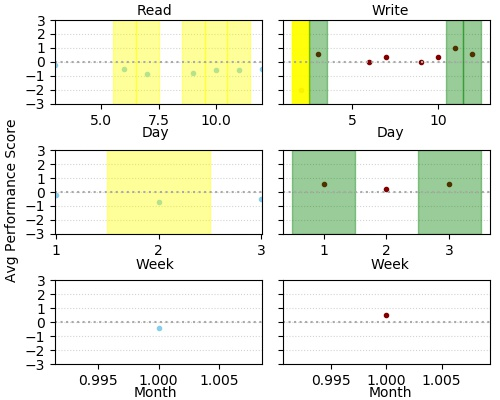
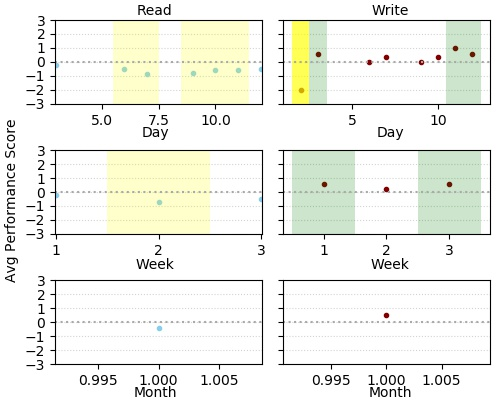
added phase coloring

diff --git a/example/simple_user.py b/example/simple_user.py
@@ -245,16 +245,18 @@ for app in top_apps:
         df = df[['Performance Z-Score',x_axis]].groupby(x_axis, as_index=False).mean()
         x = df.loc[:,x_axis]
         y = df.loc[:,'Performance Z-Score']
+        #axes[n][0].scatter(x, y, marker='.', color='skyblue',label=op)
+        #axes[n][0].set_ylim(-3, 3)
+        for i in range(0,len(y)):
+            alpha = 0.1
+            for r in np.arange(0.5,3.5,.5):
+                alpha = alpha+0.1
+                if y[i]>r:
+                    axes[n][0].axvspan(x[i]-0.5, x[i]+0.5, alpha=alpha, color='green', lw=0)
+                elif y[i]<-r:
+                    axes[n][0].axvspan(x[i]-0.5, x[i]+0.5, alpha=alpha, color='yellow', lw=0)
         axes[n][0].scatter(x, y, marker='.', color='skyblue',label=op)
         axes[n][0].set_ylim(-3, 3)
-        for i in range(0,len(y)):
-            alpha = 0.2
-            for r in np.arange(0.5,3.5,.5):
-                alpha = alpha+0.2
-                if y[i]>r:
-                    axes[n][0].axvspan(x[i]-0.5, x[i]+0.5, alpha=alpha, color='green', edgecolor=None)
-                elif y[i]<-r:
-                    axes[n][0].axvspan(x[i]-0.5, x[i]+0.5, alpha=alpha, color='yellow', edgecolor=None)
         axes[n][0].set_ylabel('')
         axes[n][0].set_yticks(np.arange(-3,4,1))
         axes[n][0].yaxis.grid(color='lightgrey', linestyle=':')
@@ -270,16 +272,18 @@ for app in top_apps:
         df = df.iloc[pos][['Performance Z-Score',x_axis]].groupby(x_axis, as_index=False).mean()
         x = df.loc[:, x_axis]
         y = df.loc[:,'Performance Z-Score']
+        #axes[n][1].scatter(x, y, marker='.', color='maroon',label=op)
+        #axes[n][1].set_ylim(-3, 3)
+        for i in range(0,len(y)):
+            alpha = 0.1
+            for r in np.arange(0.5,3.5,.5):
+                alpha = alpha+0.1
+                if y[i]>r:
+                    axes[n][1].axvspan(x[i]-0.5, x[i]+0.5, alpha=alpha, color='green', lw=0)
+                elif y[i]<-r:
+                    axes[n][1].axvspan(x[i]-0.5, x[i]+0.5, alpha=alpha, color='yellow', lw=0)
         axes[n][1].scatter(x, y, marker='.', color='maroon',label=op)
         axes[n][1].set_ylim(-3, 3)
-        for i in range(0,len(y)):
-            alpha = 0.2
-            for r in np.arange(0.5,3.5,.5):
-                alpha = alpha+0.2
-                if y[i]>r:
-                    axes[n][1].axvspan(x[i]-0.5, x[i]+0.5, alpha=alpha, color='green', edgecolor=None)
-                elif y[i]<-r:
-                    axes[n][1].axvspan(x[i]-0.5, x[i]+0.5, alpha=alpha, color='yellow', edgecolor=None)
         axes[n][1].set_ylabel('')
         axes[n][1].yaxis.grid(color='lightgrey', linestyle=':')
         axes[n][1].set_axisbelow(True)
